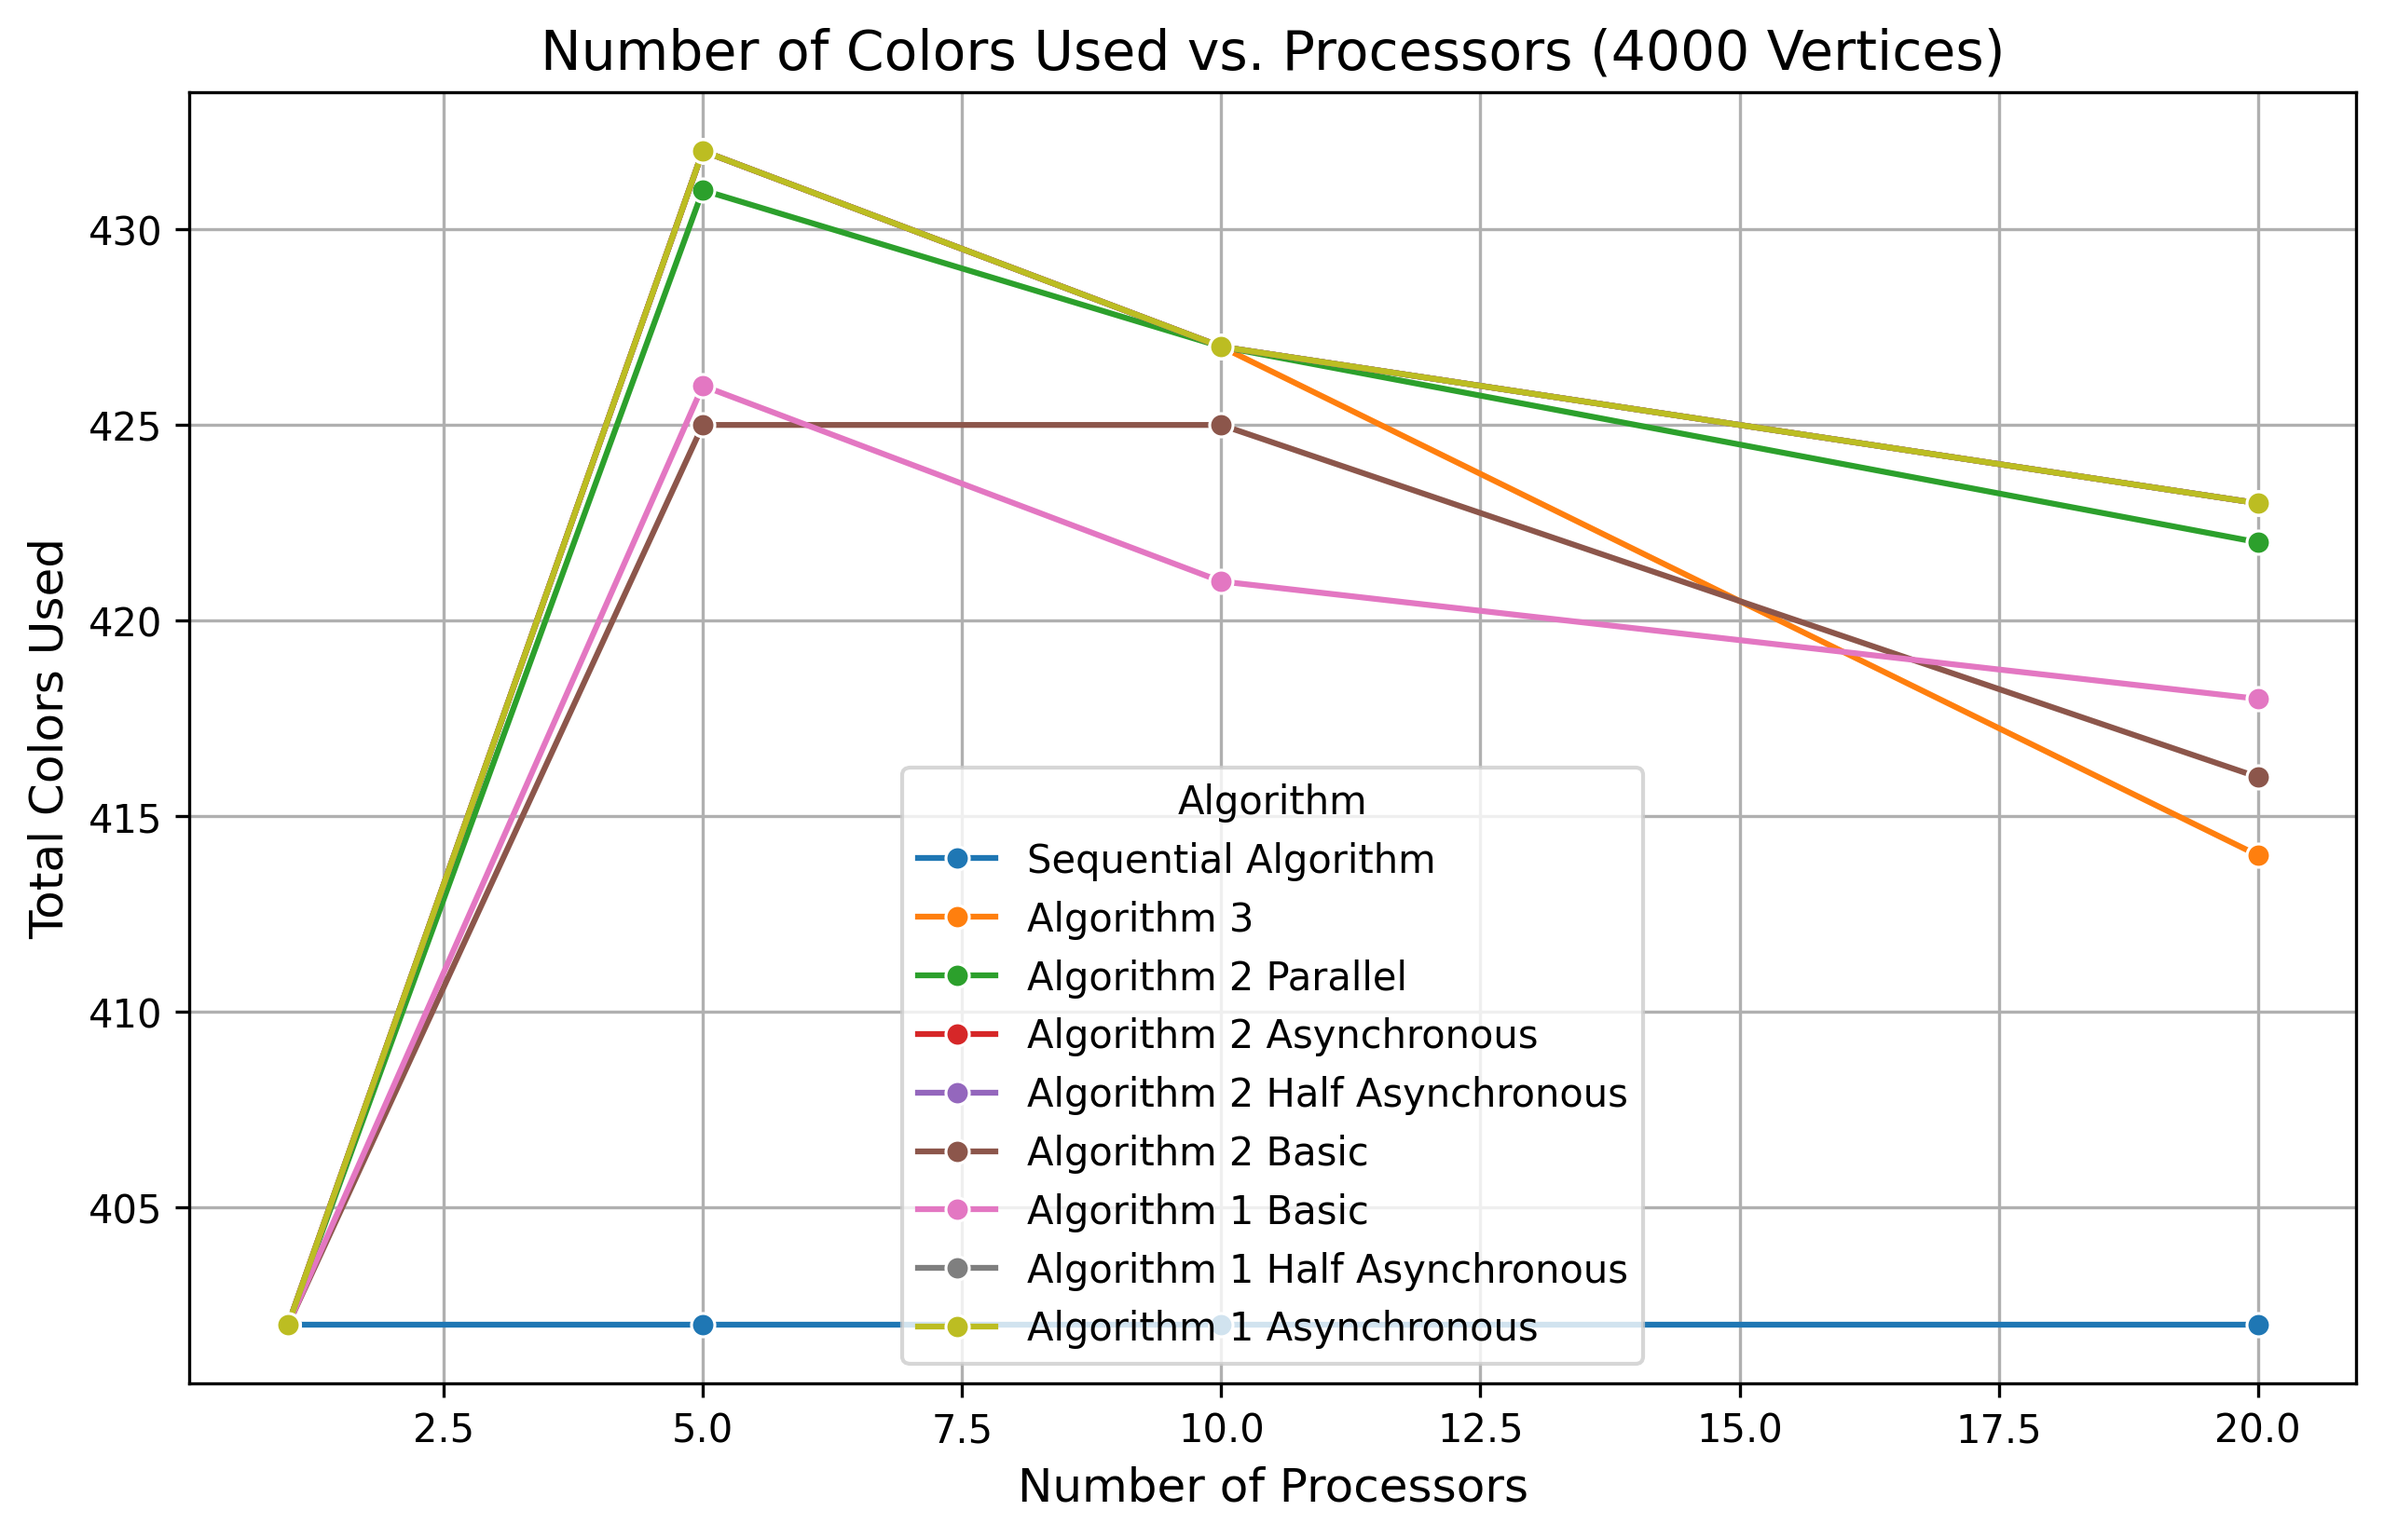
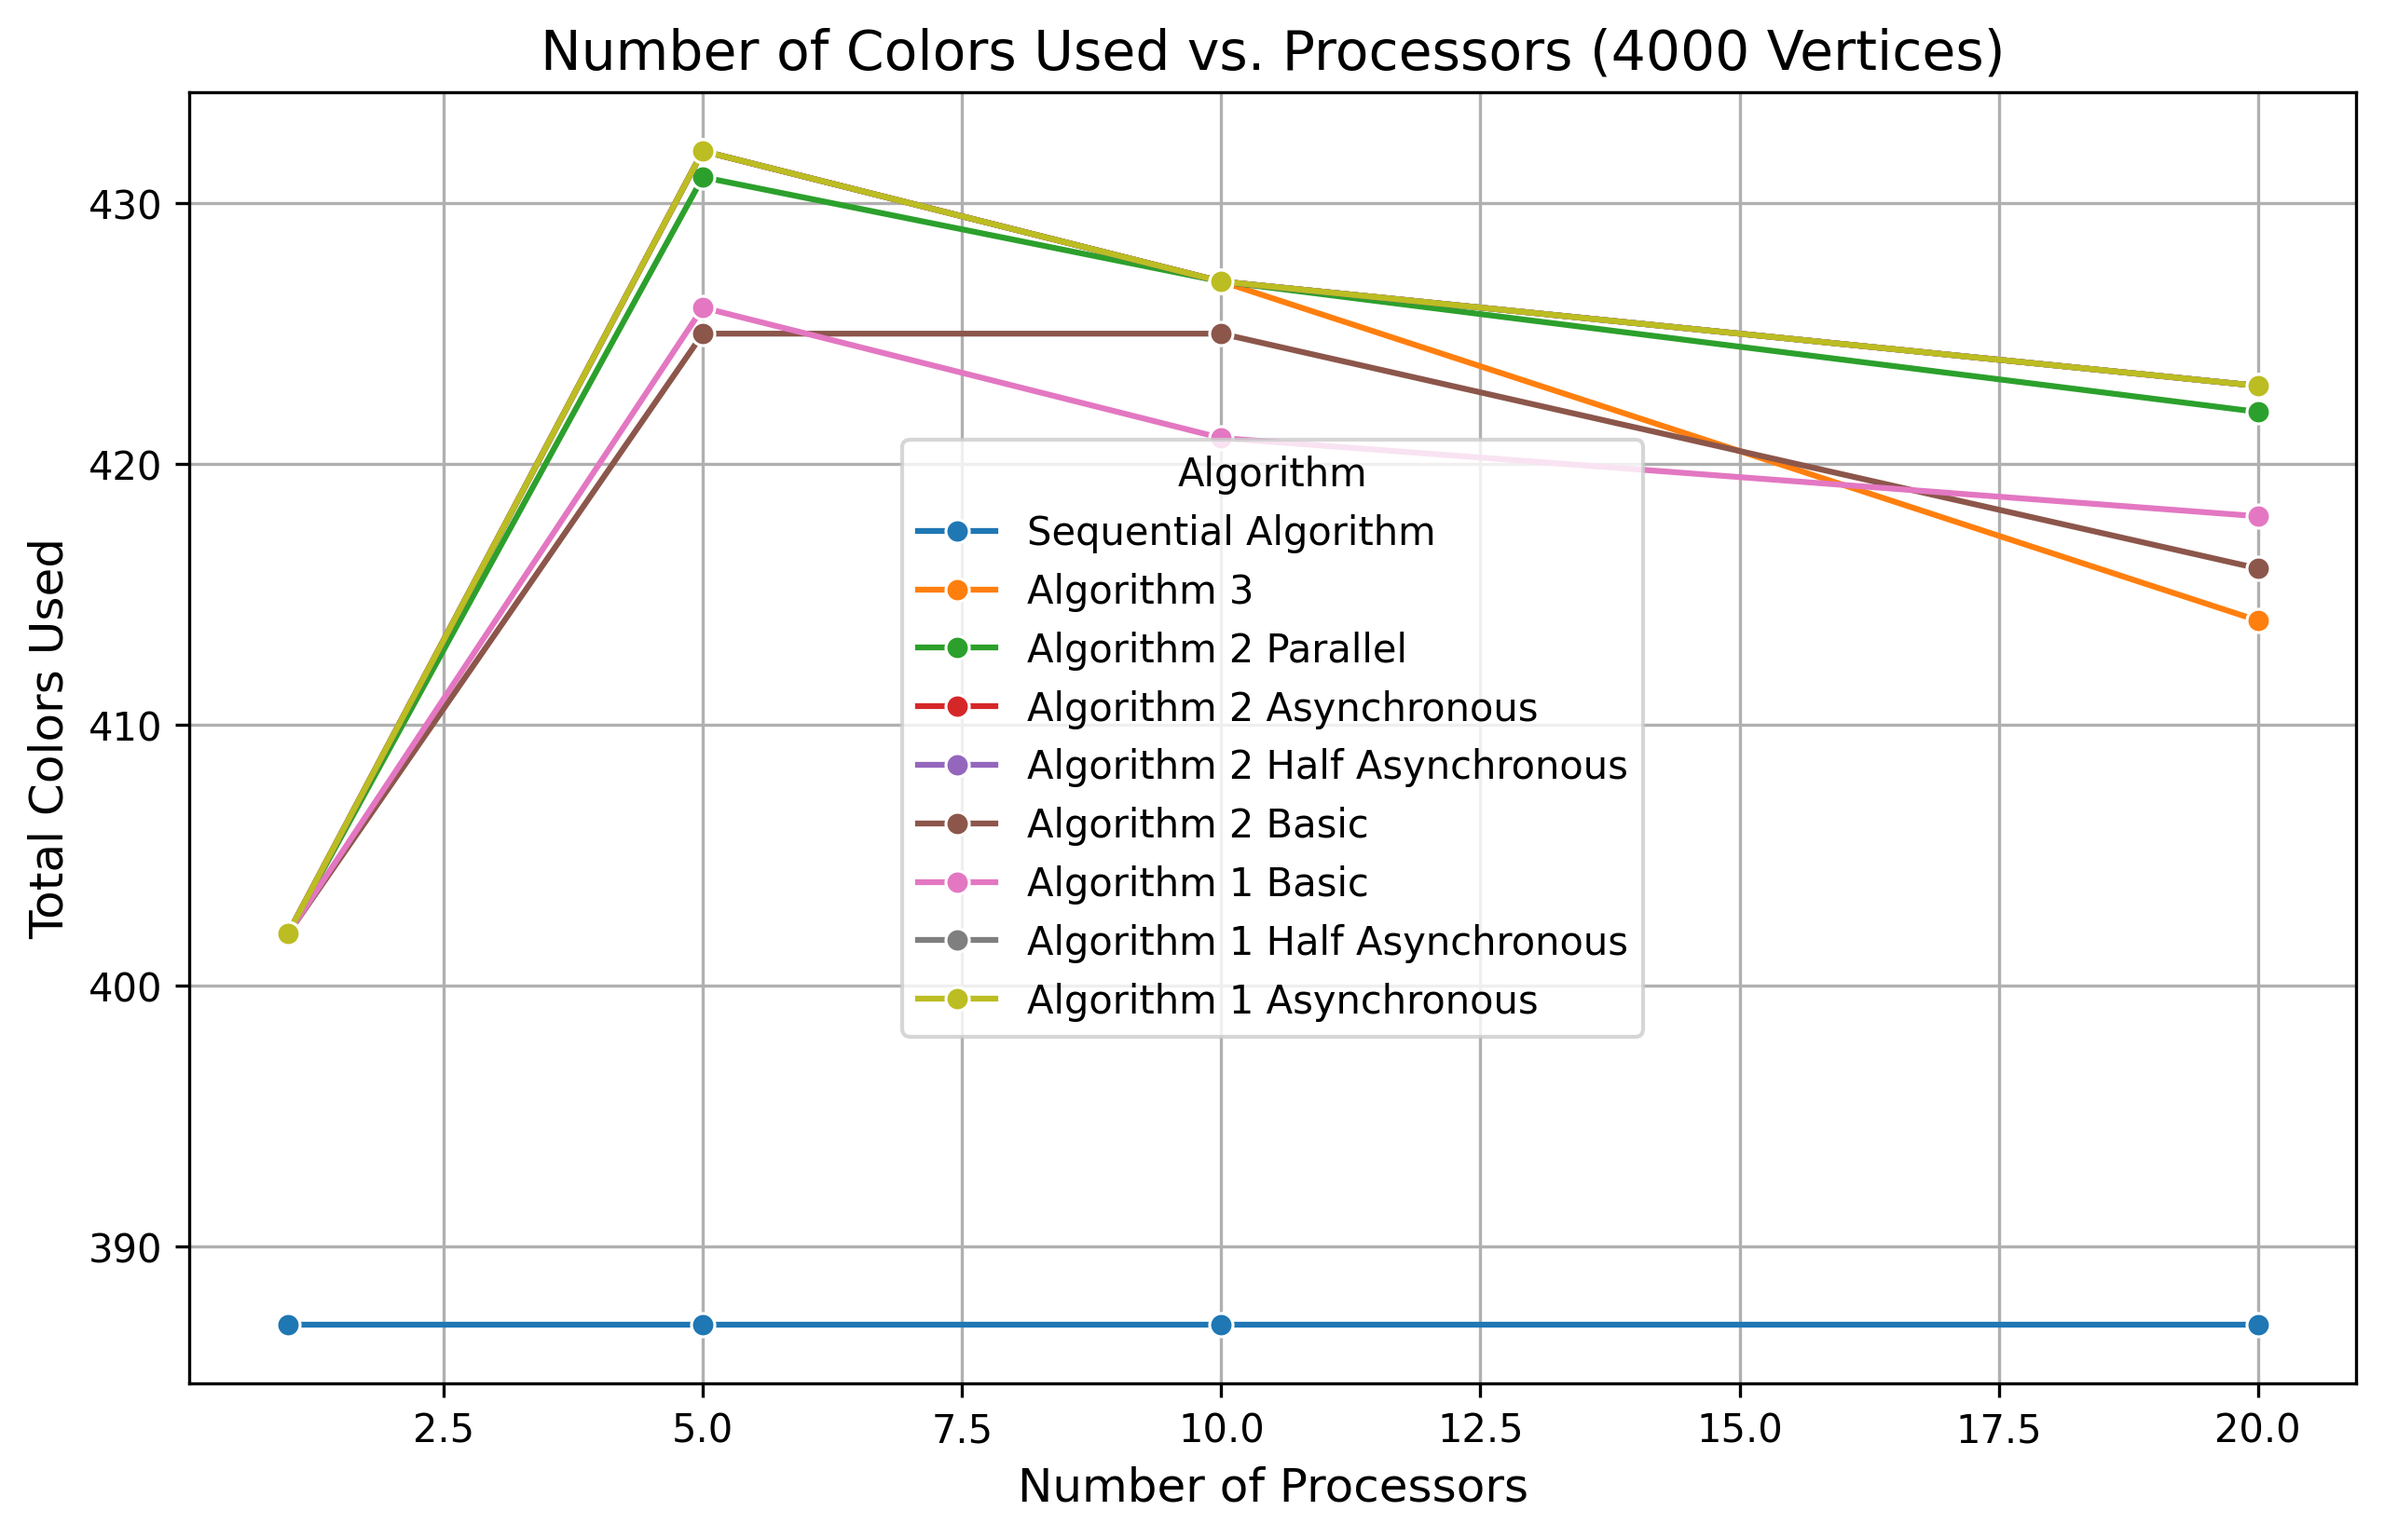
update to results

diff --git a/Python/tables.py b/Python/tables.py
@@ -13,10 +13,10 @@ graph3Time = 8271.475
 graph4Time = 12004.907
 graph5Time = 45884.307
 data.append(["Sequential Algorithm", 120, 9, graph1Time, 1276, 1, 1, 1, 1])
-data.append(["Sequential Algorithm", 450, 31, graph2Time, 16750, 1, 1, 1, 1])
-data.append(["Sequential Algorithm", 900, 213, graph3Time, 307350, 1, 1, 1, 1,])
-data.append(["Sequential Algorithm", 2000, 226, graph4Time, 999836, 1, 1, 1, 1])
-data.append(["Sequential Algorithm", 4000, 402, graph5Time, 4000268, 1, 1, 1, 1])
+data.append(["Sequential Algorithm", 450, 27, graph2Time, 16750, 1, 1, 1, 1])
+data.append(["Sequential Algorithm", 900, 124, graph3Time, 307350, 1, 1, 1, 1,])
+data.append(["Sequential Algorithm", 2000, 212, graph4Time, 999836, 1, 1, 1, 1])
+data.append(["Sequential Algorithm", 4000, 387, graph5Time, 4000268, 1, 1, 1, 1])
 
 
 # Algorithm 3 data (20 process)
@@ -401,9 +401,9 @@ plt.savefig(output_path, dpi=300, bbox_inches='tight')
 filtered_data_for_plot = df[df["Vertices Number"] == 4000]
 
 sequential_data = pd.DataFrame([
-    ["Sequential Algorithm", 4000, 402, graph5Time, 4000268, 5, 1, 1, 1],
-    ["Sequential Algorithm", 4000, 402, graph5Time, 4000268, 10, 1, 1, 1],
-    ["Sequential Algorithm", 4000, 402, graph5Time, 4000268, 20, 1, 1, 1]
+    ["Sequential Algorithm", 4000, 387, graph5Time, 4000268, 5, 1, 1, 1],
+    ["Sequential Algorithm", 4000, 387, graph5Time, 4000268, 10, 1, 1, 1],
+    ["Sequential Algorithm", 4000, 387, graph5Time, 4000268, 20, 1, 1, 1]
 ], columns=df.columns)
 
 filtered_data_for_plot = pd.concat([filtered_data_for_plot, sequential_data], ignore_index=True)
